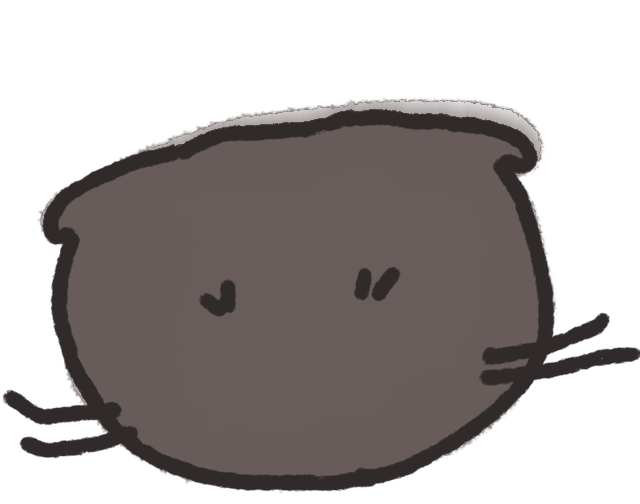
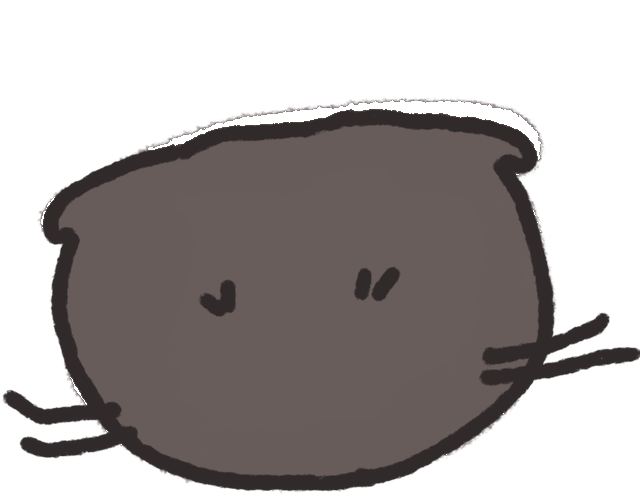
Shadow strength becomes an option in the debug panel
The two numbers behind Hex's shadow were baked into the PNGs, so neither could be
changed without regenerating art. This lifts the shadow out of the coat into its
own layer, which makes its strength a live CSS variable and lets the debug panel
offer it as a row of options next to speed.

The shadow is artwork, not a filter — coat-coloured pixels painted outside her
outline — so "how strong should it be" is not a question a mock-up can answer. It
has to be seen at real size, against the pink page, with the sunburst turning
behind it. That is what these are for.

  shadow  off / 25 / 40 / 58 / 75 / 100 %   — 58% is what shipped, and the default
  soften  0 / 2 / 4 / 8 px

Honest about one limit: the falloff SHAPE is still baked, because it is a ramp
drawn into the PNG's own alpha rather than anything CSS computes. `soften` blurs
the layer, which is the nearest live stand-in for making it reach further; a
genuinely different reach needs the assets regenerated.

The ears keep their band baked at .58 rather than joining the layer: it is ~400px
in total, and it has to travel with the ear rather than with the head, so a shared
layer would visibly lag a perk. Night is unchanged — its keyline is white, so
this band is not part of how that coat is drawn.

Claude-Session: https://claude.ai/code/session_01V7hngEDbAxCugsA5W1HCbL

Changed region(s): [[0.3125, 0.1786, 0.8438, 0.2976], [0.25, 0.2679, 0.3125, 0.2976]]

diff --git a/apps/hex-clicker/index.html b/apps/hex-clicker/index.html
@@ -427,7 +427,19 @@
      it from the decode queue in some engines and the first pet of the game would
      then flash an empty head while the PNG loads. All five decode at boot and
      stay decoded; only one is shown. */
-  #hexCat .headFrame, #hexCat #coatDay { visibility: hidden; }
+  /* The shadow layer's strength and softness are variables so the debug panel can
+     offer them as options — the falloff SHAPE is baked geometry (it is a ramp
+     drawn into the PNG's alpha), but how far it is turned up, and how much it is
+     smeared, are both live. .58 is what shipped. */
+  #hexCat #catShadow {
+    opacity: var(--hex-shadow, .58);
+    filter: blur(var(--hex-shadow-soft, 0px));
+  }
+  #hexCat .shadowFrame, #hexCat .headFrame, #hexCat #coatDay { visibility: hidden; }
+  #hexCat[data-pose="day"] #shadowDay,
+  #hexCat[data-pose="s1"]  #shadowS1,
+  #hexCat[data-pose="s2"]  #shadowS2,
+  #hexCat[data-pose="s3"]  #shadowS3 { visibility: visible; }
   #hexCat[data-pose="day"] #coatDay,
   #hexCat[data-pose="s1"]  #headSquash1,
   #hexCat[data-pose="s2"]  #headSquash2,
@@ -1292,6 +1304,20 @@
            the same trick the old vector cat used with an unstroked headFill.
            Only the day coat is split: she sleeps at night, and the ears rested
            at night in the old rig too, so the night art stays one piece. -->
+      <!-- THE SHADOW, lifted out of the coat into its own layer. It is painted
+           into the artwork as coat-coloured pixels OUTSIDE the drawn line, at
+           full opacity, which is why it blocked the sunburst; carried here it
+           keeps the artist's colour and falloff shape but its STRENGTH becomes a
+           live value (--hex-shadow) instead of something baked into a PNG.
+           First in document order so it sits under her. The ears keep their own
+           band baked in: it is ~400px total and it has to travel with the ear
+           rather than with the head, so a shared layer would lag behind a perk. -->
+      <g id="catShadow">
+       <image class="shadowFrame" id="shadowDay" href="/art/hex-day-shadow.png" x="0" y="0" width="828" height="652"/>
+       <image class="shadowFrame" id="shadowS1" href="/art/hex-squash1-shadow.png" x="0" y="0" width="828" height="652"/>
+       <image class="shadowFrame" id="shadowS2" href="/art/hex-squash2-shadow.png" x="0" y="0" width="828" height="652"/>
+       <image class="shadowFrame" id="shadowS3" href="/art/hex-squash3-shadow.png" x="0" y="0" width="828" height="652"/>
+      </g>
       <g id="coatDay">
        <image id="headDay" href="/art/hex-day.png" x="0" y="0" width="828" height="652"/>
        <g id="earLeft"><image href="/art/hex-day-earL.png"

diff --git a/apps/hex-clicker/src/debug.ts b/apps/hex-clicker/src/debug.ts
@@ -262,6 +262,12 @@ function mountPanel(sim: HexSim, emit: () => void): void {
     <div class="r"><span>speed</span>${[1, 5, 20]
       .map((n) => `<button data-s="${n}">×${n}</button>`)
       .join("")}<button data-r="1">reset</button></div>
+    <div class="r"><span>shadow</span>${[0, 25, 40, 58, 75, 100]
+      .map((n) => `<button data-sh="${n}">${n ? n + "%" : "off"}</button>`)
+      .join("")}</div>
+    <div class="r"><span>soften</span>${[0, 2, 4, 8]
+      .map((n) => `<button data-sb="${n}">${n}px</button>`)
+      .join("")}</div>
     <details id="devList"><summary>buildings &amp; upgrades</summary><div id="devContent"></div></details>
   </details>`;
   document.body.appendChild(bar);
@@ -286,6 +292,20 @@ function mountPanel(sim: HexSim, emit: () => void): void {
     else if (b.dataset.s)
       sim.state.speed = Math.max(0.25, Math.min(50, Number(b.dataset.s)));
     else if (b.dataset.r) sim.reset(now);
+    else if (b.dataset.sh || b.dataset.sb) {
+      // The shadow behind Hex. Purely a look, so it never touches the sim — it
+      // writes one CSS variable and the layer under it does the rest.
+      // These exist because the shadow is ARTWORK: it is painted into the PNGs as
+      // coat-coloured pixels outside her outline, so "how strong should it be" is
+      // not answerable from a mock-up — it has to be seen at real size with the
+      // sunburst turning behind it. The falloff SHAPE is still baked (it is a ramp
+      // in the PNG's own alpha); `soften` blurs the layer, which is the nearest
+      // live stand-in for making it reach further.
+      const root = document.documentElement.style;
+      if (b.dataset.sh) root.setProperty("--hex-shadow", String(Number(b.dataset.sh) / 100));
+      else root.setProperty("--hex-shadow-soft", b.dataset.sb + "px");
+      return; // no state moved, so nothing to emit or redraw
+    }
     emit();
     redrawList();
   });
